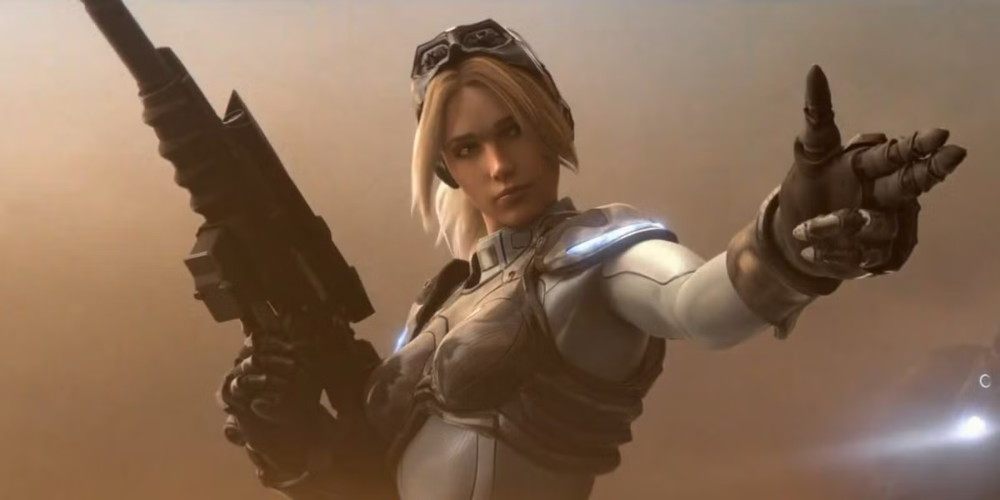
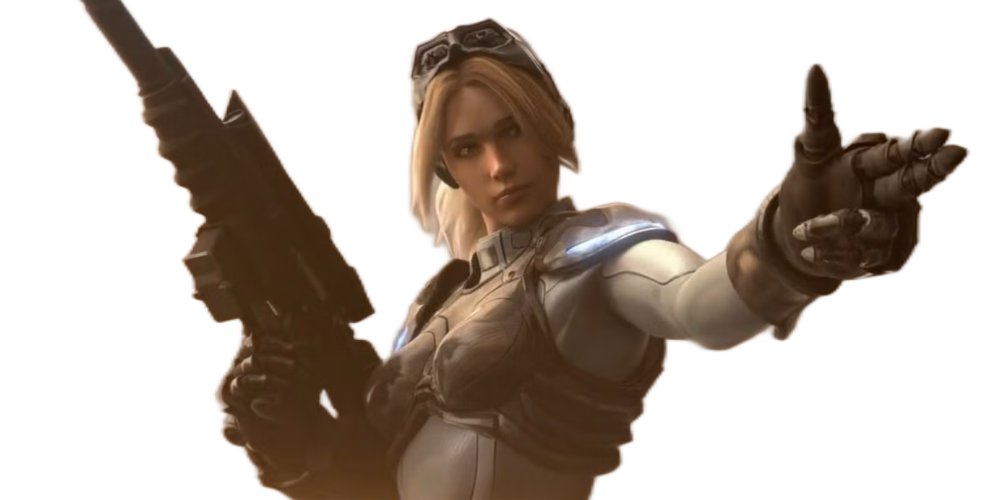
Nova: full colour, real background cutout instead of a photo crop
Background-removed the source render (Higgsfield remove_background,
real alpha channel, not a CSS vignette) so she reads as a floating
presence with no photo rectangle, now that the ground is light. Dropped
the grayscale filter -- she's in her actual colours, just a light
contrast/saturation polish.

The cutout's own alpha doubles as a CSS mask on the wrapping element, so
the rim-light/ground-fade/scanline overlay layers clip to her real
silhouette instead of painting a rectangle into the now-transparent
background around her.

Also fixed the speaking-caption overlay, which broke under the new
transparent background: it used to be a wide scrim gradient sized to
blend into a full rectangular photo, which is now visibly a stray dark
bar floating past her figure. Replaced with a compact self-sized
caption chip anchored at her chin.

diff --git a/components/Nova.tsx b/components/Nova.tsx
@@ -3,12 +3,15 @@
 import { useEffect, useRef, useState } from "react";
 
 /**
- * NOVA — the twin's face: the actual Nova render (public/nova.png), recoloured
- * into the mission-control theme. She's framed to her face, desaturated to a
- * cool graphite hologram, edge-feathered so she dissolves into the ground, lit
- * with an oxblood rim glow (the scarcity accent), and overlaid with faint
- * scanlines. She breathes, tilts toward the cursor, blooms oxblood on Approve
- * and shudders red on failure. Pure CSS/DOM — no canvas, no deps.
+ * NOVA — the twin's face: the actual Nova render (public/nova.png), background
+ * removed (real alpha cutout, not a photo crop) so she reads as a floating
+ * presence rather than a framed photograph. In full colour now that the
+ * ground is light. The same cutout doubles as a CSS mask on the wrapping
+ * element, so the rim-light/scanline/ground-fade overlay layers clip to her
+ * exact silhouette instead of painting a rectangle into the transparent
+ * background around her. She breathes, tilts toward the cursor, blooms
+ * oxblood on Approve and shudders red on failure. Pure CSS/DOM — no canvas,
+ * no deps.
  */
 
 const OXBRIGHT = "166,27,28";
@@ -86,9 +89,15 @@ export function Nova({ mood, line }: { mood: NovaMood; line: string }) {
     };
   }, [baseGlow, reduced]);
 
-  // Oval feather so she dissolves into the ground — no rectangle edge.
-  const feather =
-    "radial-gradient(ellipse 60% 68% at 50% 40%, #000 46%, rgba(0,0,0,0.6) 66%, transparent 100%)";
+  // The cutout's own alpha channel, reused as a CSS mask so the overlay
+  // layers (rim light, ground-fade, scanlines) clip to her real silhouette
+  // instead of showing as a rectangle in the now-transparent background.
+  const portraitFrame = {
+    backgroundImage: "url(/nova.png)",
+    backgroundSize: "320%",
+    backgroundPosition: "46% 16%",
+    backgroundRepeat: "no-repeat",
+  } as const;
 
   return (
     <div className="flex flex-col items-center">
@@ -103,26 +112,25 @@ export function Nova({ mood, line }: { mood: NovaMood; line: string }) {
             style={{
               width: size,
               height: size,
-              WebkitMaskImage: feather,
-              maskImage: feather,
+              WebkitMaskImage: portraitFrame.backgroundImage,
+              maskImage: portraitFrame.backgroundImage,
+              WebkitMaskSize: portraitFrame.backgroundSize,
+              maskSize: portraitFrame.backgroundSize,
+              WebkitMaskPosition: portraitFrame.backgroundPosition,
+              maskPosition: portraitFrame.backgroundPosition,
+              WebkitMaskRepeat: "no-repeat",
+              maskRepeat: "no-repeat",
             }}
           >
-            {/* the portrait — cropped tight to her face, cool graphite hologram */}
+            {/* the portrait itself, full colour now the ground is light —
+                just a light polish, no grayscale/darkening */}
+            <div className="absolute inset-0" style={{ ...portraitFrame, filter: "contrast(1.04) saturate(1.06)" }} />
+            {/* faint oxblood rim light — kept subtle so it reads as a glow
+                accent, not a colour cast over her actual colours */}
             <div
               className="absolute inset-0"
               style={{
-                backgroundImage: "url(/nova.png)",
-                backgroundSize: "320%",
-                backgroundPosition: "46% 16%",
-                backgroundRepeat: "no-repeat",
-                filter: "grayscale(1) contrast(1.14) brightness(0.86)",
-              }}
-            />
-            {/* faint oxblood rim light — the only tint; she stays graphite */}
-            <div
-              className="absolute inset-0"
-              style={{
-                background: `linear-gradient(105deg, rgba(${OXBRIGHT},0.18) 0%, rgba(${OXBRIGHT},0) 30%)`,
+                background: `linear-gradient(105deg, rgba(${OXBRIGHT},0.12) 0%, rgba(${OXBRIGHT},0) 26%)`,
                 mixBlendMode: "screen",
               }}
             />
@@ -137,8 +145,8 @@ export function Nova({ mood, line }: { mood: NovaMood; line: string }) {
             <div
               className="absolute inset-0"
               style={{
-                backgroundImage: "repeating-linear-gradient(0deg, rgba(232,232,227,0.06) 0 1px, transparent 1px 4px)",
-                mixBlendMode: "overlay",
+                backgroundImage: "repeating-linear-gradient(0deg, rgba(25,26,28,0.05) 0 1px, transparent 1px 4px)",
+                mixBlendMode: "multiply",
               }}
             />
           </div>
@@ -187,18 +195,17 @@ function NovaCaption({ line }: { line: string }) {
   if (!line.trim()) return null;
 
   return (
-    <div className="pointer-events-none absolute inset-x-0 bottom-0 flex justify-center pb-[6%]">
-      <div
-        className="absolute inset-x-[-20%] bottom-[-10%] top-[30%]"
-        style={{
-          background:
-            "radial-gradient(ellipse 75% 90% at 50% 100%, rgba(6,7,8,0.95) 0%, rgba(6,7,8,0.72) 42%, transparent 75%)",
-        }}
-      />
-      {/* Text colour is pinned to Splash "clay" (not the --color-ink token),
-          because the scrim behind it is deliberately dark regardless of the
-          page theme — she's a lit screen, like captions on a video. */}
-      <p className="relative max-w-[92%] px-4 text-center font-mono text-[11px] leading-relaxed tracking-wider text-[#e8e8e3]">
+    <div className="pointer-events-none absolute inset-x-0 bottom-[9%] flex justify-center px-6">
+      {/* A self-contained caption chip, not a scrim bleeding across the box —
+          she's a floating cutout now (transparent background), so anything
+          wider than the text itself would show as a stray rectangle rather
+          than blending into a photo edge. Colour pinned to Splash "clay"
+          regardless of the page theme, since this chip is deliberately dark
+          — she's a lit screen, like captions on a video. */}
+      <p
+        className="relative max-w-[88%] rounded px-3 py-1.5 text-center font-mono text-[11px] leading-relaxed tracking-wider text-[#e8e8e3]"
+        style={{ background: "rgba(6,7,8,0.82)" }}
+      >
         <span className="text-oxbright">NOVA //</span> {typed}
         <span className="animate-pulse text-oxbright">▍</span>
       </p>
